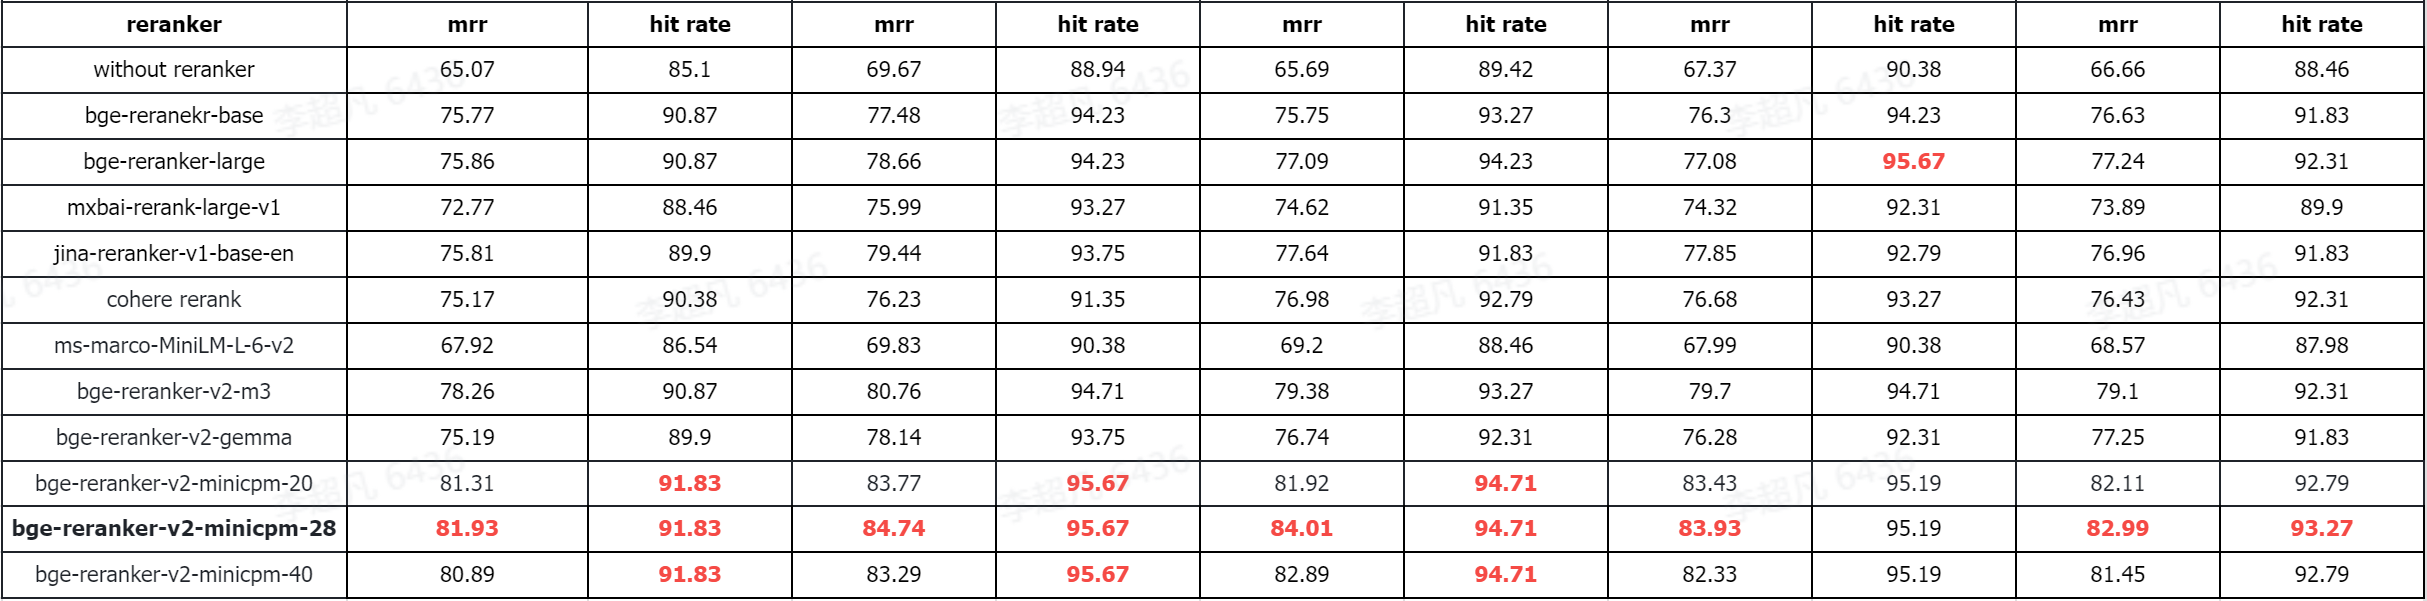
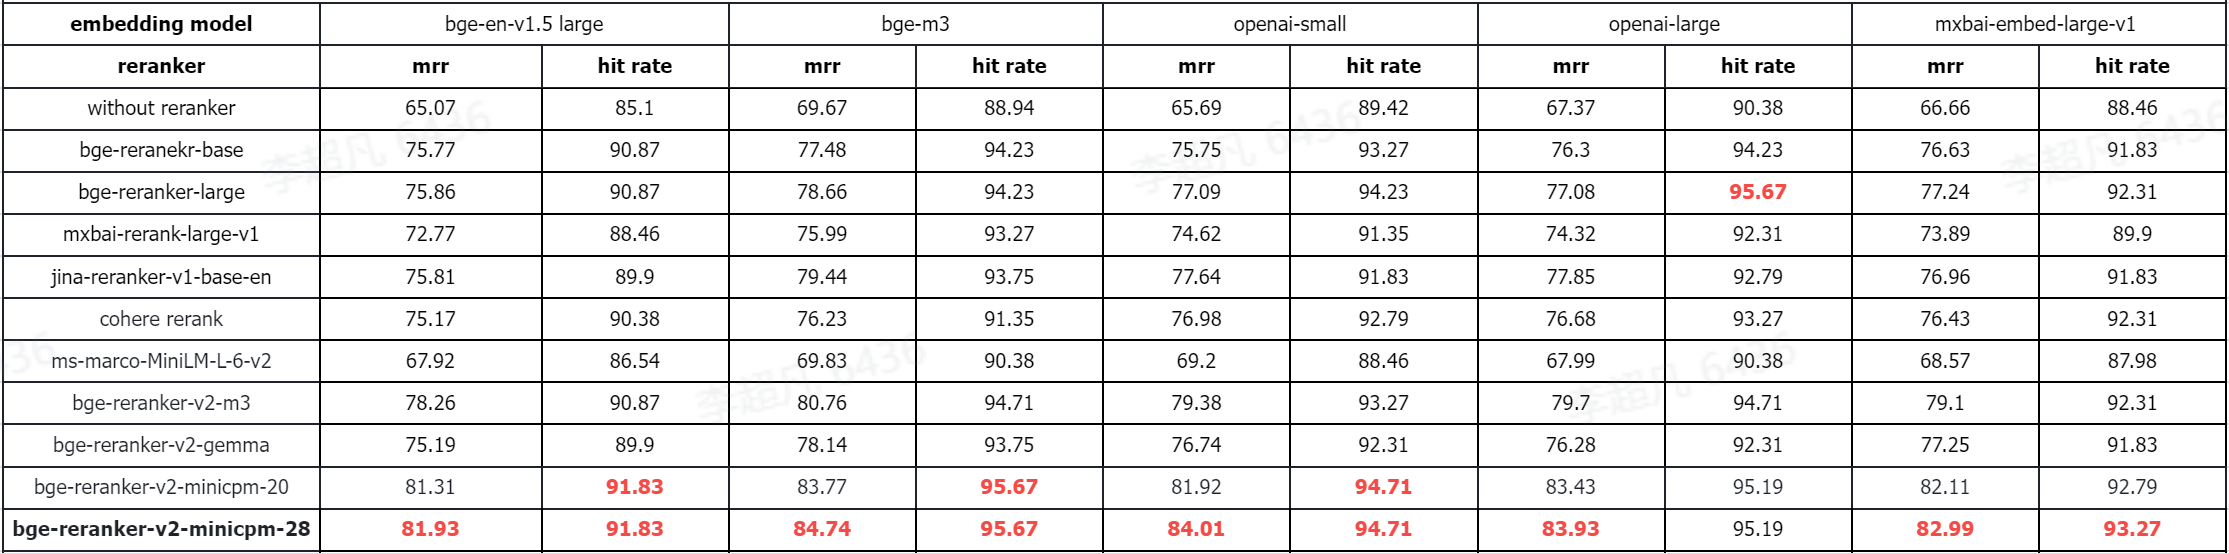
reranker-v2

Changed region(s): [[0.0, 0.0, 1.0, 1.0]]

diff --git a/FlagEmbedding/flag_reranker.py b/FlagEmbedding/flag_reranker.py
@@ -1,4 +1,4 @@
-from typing import Union, List, Tuple
+from typing import Union, List, Tuple, Any
 
 import numpy as np
 import torch
@@ -45,7 +45,6 @@ class DatasetForReranker(Dataset):
 
         self.encode_max_length = self.max_len + len(self.sep_inputs) + len(self.prompt_inputs)
 
-
     def __len__(self):
         return self.total_len
 
@@ -80,66 +79,6 @@ class DatasetForReranker(Dataset):
             item['position_ids'] = list(range(len(item['input_ids'])))
 
         return item
-
-class FlagReranker:
-    def __init__(
-            self,
-            model_name_or_path: str = None,
-            use_fp16: bool = False
-    ) -> None:
-
-        self.tokenizer = AutoTokenizer.from_pretrained(model_name_or_path)
-        self.model = AutoModelForSequenceClassification.from_pretrained(model_name_or_path)
-
-        if torch.cuda.is_available():
-            self.device = torch.device("cuda")
-        elif torch.backends.mps.is_available():
-            self.device = torch.device("mps")
-        elif is_torch_npu_available():
-            self.device = torch.device("npu")
-        else:
-            self.device = torch.device("cpu")
-            use_fp16 = False
-        if use_fp16:
-            self.model.half()
-
-        self.model = self.model.to(self.device)
-
-        self.model.eval()
-
-        self.num_gpus = torch.cuda.device_count()
-        if self.num_gpus > 1:
-            print(f"----------using {self.num_gpus}*GPUs----------")
-            self.model = torch.nn.DataParallel(self.model)
-
-    @torch.no_grad()
-    def compute_score(self, sentence_pairs: Union[List[Tuple[str, str]], Tuple[str, str]], batch_size: int = 256,
-                      max_length: int = 512) -> List[float]:
-        if self.num_gpus > 0:
-            batch_size = batch_size * self.num_gpus
-
-        assert isinstance(sentence_pairs, list)
-        if isinstance(sentence_pairs[0], str):
-            sentence_pairs = [sentence_pairs]
-
-        all_scores = []
-        for start_index in tqdm(range(0, len(sentence_pairs), batch_size), desc="Compute Scores",
-                                disable=len(sentence_pairs) < 128):
-            sentences_batch = sentence_pairs[start_index:start_index + batch_size]
-            inputs = self.tokenizer(
-                sentences_batch,
-                padding=True,
-                truncation=True,
-                return_tensors='pt',
-                max_length=max_length,
-            ).to(self.device)
-
-            scores = self.model(**inputs, return_dict=True).logits.view(-1, ).float()
-            all_scores.extend(scores.cpu().numpy().tolist())
-
-        if len(all_scores) == 1:
-            return all_scores[0]
-        return all_scores
 
 class collater():
     def __init__(self, tokenizer, max_len):
@@ -193,6 +132,83 @@ def last_logit_pool(logits: Tensor,
         batch_size = logits.shape[0]
         return torch.stack([logits[i, sequence_lengths[i], :] for i in range(batch_size)], dim=0)
 
+def last_logit_pool_layerwise(logits: Tensor,
+                              attention_mask: Tensor) -> Tensor:
+    left_padding = (attention_mask[:, -1].sum() == attention_mask.shape[0])
+    if left_padding:
+        return logits[:, -1]
+    else:
+        sequence_lengths = attention_mask.sum(dim=1) - 1
+        batch_size = logits.shape[0]
+        return logits[torch.arange(batch_size, device=logits.device), sequence_lengths]
+
+def sigmoid(x):
+    return 1 / (1 + np.exp(-x))
+
+class FlagReranker:
+    def __init__(
+            self,
+            model_name_or_path: str = None,
+            use_fp16: bool = False
+    ) -> None:
+
+        self.tokenizer = AutoTokenizer.from_pretrained(model_name_or_path)
+        self.model = AutoModelForSequenceClassification.from_pretrained(model_name_or_path)
+
+        if torch.cuda.is_available():
+            self.device = torch.device("cuda")
+        elif torch.backends.mps.is_available():
+            self.device = torch.device("mps")
+        elif is_torch_npu_available():
+            self.device = torch.device("npu")
+        else:
+            self.device = torch.device("cpu")
+            use_fp16 = False
+        if use_fp16:
+            self.model.half()
+
+        self.model = self.model.to(self.device)
+
+        self.model.eval()
+
+        self.num_gpus = torch.cuda.device_count()
+        if self.num_gpus > 1:
+            print(f"----------using {self.num_gpus}*GPUs----------")
+            self.model = torch.nn.DataParallel(self.model)
+
+    @torch.no_grad()
+    def compute_score(self, sentence_pairs: Union[List[Tuple[str, str]], Tuple[str, str]], batch_size: int = 256,
+                      max_length: int = 512, normalize: bool = False) -> List[float]:
+        if self.num_gpus > 0:
+            batch_size = batch_size * self.num_gpus
+
+        assert isinstance(sentence_pairs, list)
+        if isinstance(sentence_pairs[0], str):
+            sentence_pairs = [sentence_pairs]
+
+        all_scores = []
+        for start_index in tqdm(range(0, len(sentence_pairs), batch_size), desc="Compute Scores",
+                                disable=len(sentence_pairs) < 128):
+            sentences_batch = sentence_pairs[start_index:start_index + batch_size]
+            inputs = self.tokenizer(
+                sentences_batch,
+                padding=True,
+                truncation=True,
+                return_tensors='pt',
+                max_length=max_length,
+            ).to(self.device)
+
+            scores = self.model(**inputs, return_dict=True).logits.view(-1, ).float()
+            all_scores.extend(scores.cpu().numpy().tolist())
+
+        if normalize:
+            all_scores = [sigmoid(score) for score in all_scores]
+
+        if len(all_scores) == 1:
+            return all_scores[0]
+        return all_scores
+
+
 class FlagLLMReranker:
     def __init__(
             self,
@@ -232,7 +248,7 @@ class FlagLLMReranker:
 
     @torch.no_grad()
     def compute_score(self, sentence_pairs: Union[List[Tuple[str, str]], Tuple[str, str]], batch_size: int = 16,
-                      max_length: int = 512, prompt: str = None) -> List[float]:
+                      max_length: int = 512, prompt: str = None, normalize: bool = False) -> List[float]:
         assert isinstance(sentence_pairs, list)
         if isinstance(sentence_pairs[0], str):
             sentence_pairs = [sentence_pairs]
@@ -257,10 +273,12 @@ class FlagLLMReranker:
             logits = outputs.logits
             scores = last_logit_pool(logits, inputs['attention_mask'])
             scores = scores[:, self.yes_loc]
-            all_scores.extend(scores.cpu().float())
+            all_scores.extend(scores.cpu().float().tolist())
 
         all_scores = [all_scores[idx] for idx in np.argsort(length_sorted_idx)]
-        all_scores = np.asarray(all_scores)
+
+        if normalize:
+            all_scores = [sigmoid(score) for score in all_scores]
 
         if len(all_scores) == 1:
             return all_scores[0]
@@ -283,16 +301,6 @@ class FlagLLMReranker:
             return len(text)
         else:
             return sum([len(t) for t in text])  # Sum of length of individual strings
-
-def last_logit_pool_layerwise(logits: Tensor,
-                              attention_mask: Tensor) -> Tensor:
-    left_padding = (attention_mask[:, -1].sum() == attention_mask.shape[0])
-    if left_padding:
-        return logits[:, -1]
-    else:
-        sequence_lengths = attention_mask.sum(dim=1) - 1
-        batch_size = logits.shape[0]
-        return logits[torch.arange(batch_size, device=logits.device), sequence_lengths]
 
 class LayerWiseFlagLLMReranker:
     def __init__(
@@ -333,7 +341,8 @@ class LayerWiseFlagLLMReranker:
 
     @torch.no_grad()
     def compute_score(self, sentence_pairs: Union[List[Tuple[str, str]], Tuple[str, str]], batch_size: int = 16,
-                      max_length: int = 512, cutoff_layers: List[int] = None, prompt: str = None) -> List[float]:
+                      max_length: int = 512, cutoff_layers: List[int] = None, prompt: str = None,
+                      normalize: bool = False) -> List[float]:
         assert isinstance(sentence_pairs, list)
         if isinstance(sentence_pairs[0], str):
             sentence_pairs = [sentence_pairs]
@@ -366,11 +375,12 @@ class LayerWiseFlagLLMReranker:
                     all_scores.append([])
 
             for i in range(len(tmp_all_scores)):
-                all_scores[i].extend(tmp_all_scores[i].cpu().float())
+                all_scores[i].extend(tmp_all_scores[i].cpu().float().tolist())
 
         for i in range(len(all_scores)):
             all_scores[i] = [all_scores[i][idx] for idx in np.argsort(length_sorted_idx)]
-            all_scores[i] = np.asarray([score.numpy() for score in all_scores[i]])
+            if normalize:
+                all_scores[i] = [sigmoid(score) for score in all_scores[i]]
 
         if len(all_scores) == 1:
             return all_scores[0]

diff --git a/FlagEmbedding/llm_reranker/README.md b/FlagEmbedding/llm_reranker/README.md
@@ -6,15 +6,15 @@ Different from embedding model, reranker uses question and document as input and
 You can get a relevance score by inputting query and passage to the reranker. 
 The reranker is optimized based cross-entropy loss, so the relevance score is not bounded to a specific range.
 
-## Model List
+**Model List**
 
-| Model                                                                     | Language | layerwise |                                                             Description                                                             |                           feature                            |
+| Model                                                                     | Language | layerwise |                           feature                            |                           Applicable Scenarios        |
 |:--------------------------------------------------------------------------|:--------:|:-----------------------------------------------------------------------------------------------------------------------------------:|:----------------------------------------------------------------------------------------------:|:----------------------------------------------------------------------------------------------:|
-| [BAAI/bge-reranker-base](https://huggingface.co/BAAI/bge-reranker-base) | Chinese and English |     -     | a cross-encoder model which is more accurate but less efficient | Lightweight reranker model, easy to deploy, with fast inference. |
-| [BAAI/bge-reranker-large](https://huggingface.co/BAAI/bge-reranker-large) | Chinese and English |     -     | a cross-encoder model which is more accurate but less efficient | Lightweight reranker model, easy to deploy, with fast inference. |
-| [BAAI/bge-reranker-v2-m3](https://huggingface.co/BAAI/bge-reranker-v2-m3) |    Multilingual     |     -     | a cross-encoder model which is more accurate but less efficient | Lightweight reranker model, possesses strong multilingual capabilities, easy to deploy, with fast inference. |
-| [BAAI/bge-reranker-v2-gemma](https://huggingface.co/BAAI/bge-reranker-v2-gemma) |    Multilingual     |     -     | a cross-encoder model which is more accurate but less efficient | Suitable for multilingual contexts, performs well in both English proficiency and multilingual capabilities. |
-| [BAAI/bge-reranker-v2-minicpm-layerwise](https://huggingface.co/BAAI/bge-reranker-v2-minicpm-layerwise) |    Multilingual     |   8-40    | a cross-encoder model which is more accurate but less efficient | Suitable for multilingual contexts, performs well in both English and Chinese proficiency, allows freedom to select layers for output, facilitating accelerated inference. |
+| [BAAI/bge-reranker-base](https://huggingface.co/BAAI/bge-reranker-base) | Chinese and English |     -     | Lightweight reranker model, easy to deploy, with fast inference. | Having some GPU resources, with an extremely large dataset or aiming for extremely fast processing speed. Primarily dealing with English or Chinese data. |
+| [BAAI/bge-reranker-large](https://huggingface.co/BAAI/bge-reranker-large) | Chinese and English |     -     | Lightweight reranker model, easy to deploy, with fast inference. | Having some GPU resources, with an extremely large dataset or aiming for extremely fast processing speed. Primarily dealing with English or Chinese data. |
+| [BAAI/bge-reranker-v2-m3](https://huggingface.co/BAAI/bge-reranker-v2-m3) |    Multilingual     |     -     | Lightweight reranker model, possesses strong multilingual capabilities, easy to deploy, with fast inference. | Having some GPU resources, with an extremely large dataset or aiming for extremely fast processing speed. Primarily dealing with multilingual data. |
+| [BAAI/bge-reranker-v2-gemma](https://huggingface.co/BAAI/bge-reranker-v2-gemma) |    Multilingual     |     -     | Suitable for multilingual contexts, performs well in both English proficiency and multilingual capabilities. | Having abundant GPU resources, a relatively small dataset or tolerance for longer processing times. Primarily dealing with multilingual data and requiring high-quality re-ranking results. |
+| [BAAI/bge-reranker-v2-minicpm-layerwise](https://huggingface.co/BAAI/bge-reranker-v2-minicpm-layerwise) |    Multilingual     |   8-40    | Suitable for multilingual contexts, performs well in both English and Chinese proficiency, allows freedom to select layers for output, facilitating accelerated inference. | Having abundant GPU resources, but aiming for faster processing speed. Mainly dealing with English or Chinese data and requiring high-quality re-ranking results. |
 
 
 ### Using FlagEmbedding
@@ -30,11 +30,11 @@ Get relevance scores (higher scores indicate more relevance):
 from FlagEmbedding import FlagReranker
 reranker = FlagReranker('BAAI/bge-reranker-v2-m3', use_fp16=True) # Setting use_fp16 to True speeds up computation with a slight performance degradation
 
-score = reranker.compute_score(['query', 'passage'])
-print(score) # -5.65234375
+score = reranker.compute_score(['query', 'passage'], normalize=False)
+print(score) # -5.6523
 
-scores = reranker.compute_score([['what is panda?', 'hi'], ['what is panda?', 'The giant panda (Ailuropoda melanoleuca), sometimes called a panda bear or simply panda, is a bear species endemic to China.']])
-print(scores) # [-8.1875, 5.26171875]
+scores = reranker.compute_score([['what is panda?', 'hi'], ['what is panda?', 'The giant panda (Ailuropoda melanoleuca), sometimes called a panda bear or simply panda, is a bear species endemic to China.']], normalize=False)
+print(scores) # [-8.1875, 5.2617]
 ```
 
 #### For LLM-based reranker
@@ -43,24 +43,24 @@ print(scores) # [-8.1875, 5.26171875]
 from FlagEmbedding import FlagLLMReranker
 reranker = FlagLLMReranker('BAAI/bge-reranker-v2-gemma', use_bf16=True) # Setting use_bf16 to True speeds up computation with a slight performance degradation
 
-score = reranker.compute_score(['query', 'passage'])
-print(score) # 2.15625
+score = reranker.compute_score(['query', 'passage'], normalize=False)
+print(score) # 2.1563
 
-scores = reranker.compute_score([['what is panda?', 'hi'], ['what is panda?', 'The giant panda (Ailuropoda melanoleuca), sometimes called a panda bear or simply panda, is a bear species endemic to China.']])
-print(scores) # [-0.84765625, 10.625]
+scores = reranker.compute_score([['what is panda?', 'hi'], ['what is panda?', 'The giant panda (Ailuropoda melanoleuca), sometimes called a panda bear or simply panda, is a bear species endemic to China.']], normalize=False)
+print(scores) # [-0.8477, 10.625]
 ```
 
 #### For LLM-based layerwise reranker
 
 ```python
 from FlagEmbedding import LayerWiseFlagLLMReranker
-reranker = LayerWiseFlagLLMReranker('BAAI/bge-reranker-v2-minicpm-layerwise', use_bf16=True, cache_dir='/share/LMs') # Setting use_bf16 to True speeds up computation with a slight performance degradation
+reranker = LayerWiseFlagLLMReranker('BAAI/bge-reranker-v2-minicpm-layerwise', use_bf16=True) # Setting use_bf16 to True speeds up computation with a slight performance degradation
 
-score = reranker.compute_score(['query', 'passage'], cutoff_layers=[28]) # Adjusting 'cutoff_layers' to pick which layers are used for computing the score.
-print(score) # [-7.03125]
+score = reranker.compute_score(['query', 'passage'], cutoff_layers=[28], normalize=False) # Adjusting 'cutoff_layers' to pick which layers are used for computing the score.
+print(score) # [-7.0313]
 
-scores = reranker.compute_score([['what is panda?', 'hi'], ['what is panda?', 'The giant panda (Ailuropoda melanoleuca), sometimes called a panda bear or simply panda, is a bear species endemic to China.']], cutoff_layers=[28])
-print(scores) # [-10,   1.8203125]
+scores = reranker.compute_score([['what is panda?', 'hi'], ['what is panda?', 'The giant panda (Ailuropoda melanoleuca), sometimes called a panda bear or simply panda, is a bear species endemic to China.']], cutoff_layers=[28], normalize=False)
+print(scores) # [-10,   1.8203]
 ```
 
 ### Using Huggingface transformers
@@ -228,4 +228,27 @@ Here are the evaluation results of miracl (multi-language). It rereank the top 1
 
 Here are the evaluation results of llama-index.
 
-![image-20240317173318511](./evaluation/llama-index.png)
+![image-20240317180559538](./evaluation/llama-index.png)
+
+
+## Citation
+
+If you find this repository useful, please consider giving a star :star: and citation
+
+```
+@misc{li2023making,
+      title={Making Large Language Models A Better Foundation For Dense Retrieval}, 
+      author={Chaofan Li and Zheng Liu and Shitao Xiao and Yingxia Shao},
+      year={2023},
+      eprint={2312.15503},
+      archivePrefix={arXiv},
+      primaryClass={cs.CL}
+}
+@misc{chen2024bge,
+      title={BGE M3-Embedding: Multi-Lingual, Multi-Functionality, Multi-Granularity Text Embeddings Through Self-Knowledge Distillation}, 
+      author={Jianlv Chen and Shitao Xiao and Peitian Zhang and Kun Luo and Defu Lian and Zheng Liu},
+      year={2024},
+      eprint={2402.03216},
+      archivePrefix={arXiv},
+      primaryClass={cs.CL}
+}
